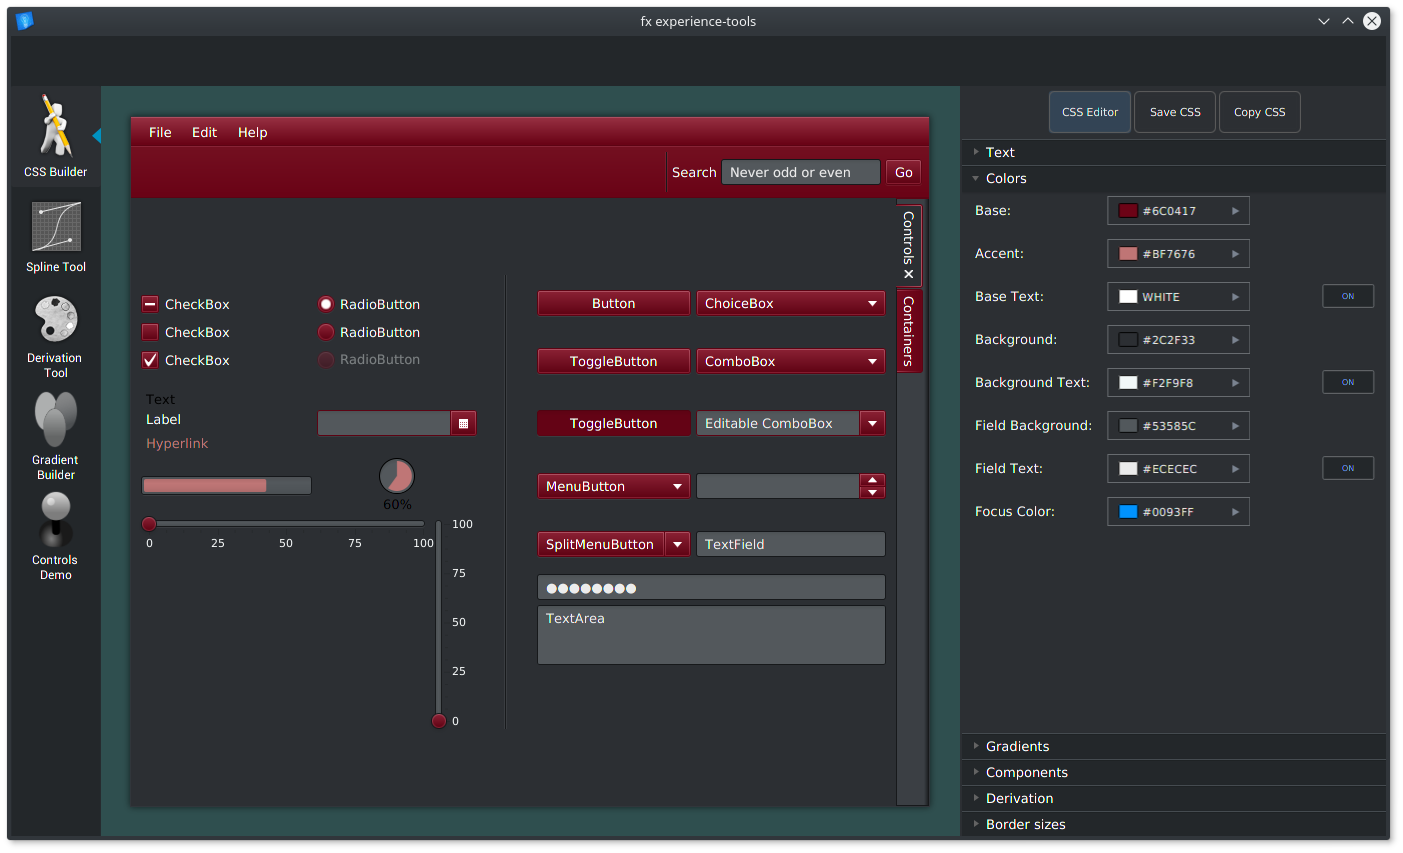
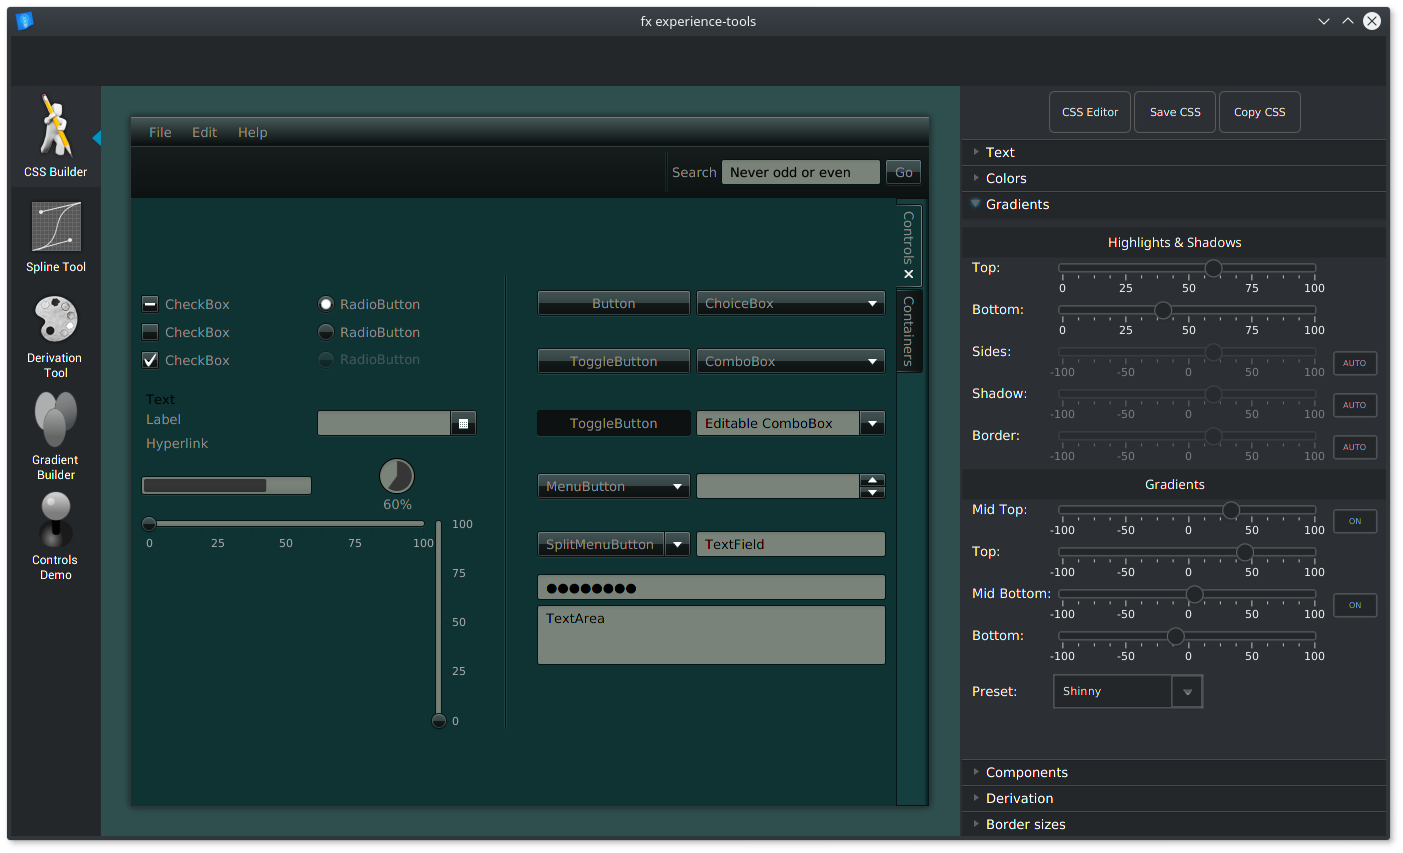
update screenshot

diff --git a/FXExperienceTools/src/main/resources/styles/preview.css b/FXExperienceTools/src/main/resources/styles/preview.css
@@ -1,0 +1,3 @@
+.text {
+    -fx-fill: -fx-text-background-color;
+}

diff --git a/FXExperienceTools/src/main/java/com/fxexperience/tools/controller/StyleController.java b/FXExperienceTools/src/main/java/com/fxexperience/tools/controller/StyleController.java
@@ -349,13 +349,13 @@ public class StyleController extends VBox {
             } else {
                 inputBorderToggle.setText("AUTO");
                 sbRoot.append("}\n");
-                sbRoot.append("@font-face {\n" +
-                        "src: url(“Roboto-Light.ttf”);\n" +
-                        "}\n" +
-                        "\n" +
-                        ".label, .button, .toggle-button, .choice-box, .text {\n" +
-                        "-fx-font-family: 'Roboto';\n" +
-                        "}\n");
+//                sbRoot.append("@font-face {\n" +
+//                        "src: url(“Roboto-Light.ttf”);\n" +
+//                        "}\n" +
+//                        "\n" +
+//                        ".label, .button, .toggle-button, .choice-box, .text {\n" +
+//                        "-fx-font-family: 'Roboto';\n" +
+//                        "}\n");
             }
 
         previewController.setPreviewPanelStyle(sbRoot.toString());
@@ -431,7 +431,7 @@ public class StyleController extends VBox {
         sbBody.append("}\n");
         sbBody.append(".text {\n");
 
-        sbBody.append(StringUtil.padWithSpaces("-fx-font-family: -fx-font-type;", true, 4));
+        sbBody.append(StringUtil.padWithSpaces("-fx-font-family: -fx-font-type; -fx-fill: -fx-text-background-color;", true, 4));
         sbBody.append("}\n");
 
         sbBody.append(".button, .toggle-button, .check-box .box, .radio-button .radio, "
